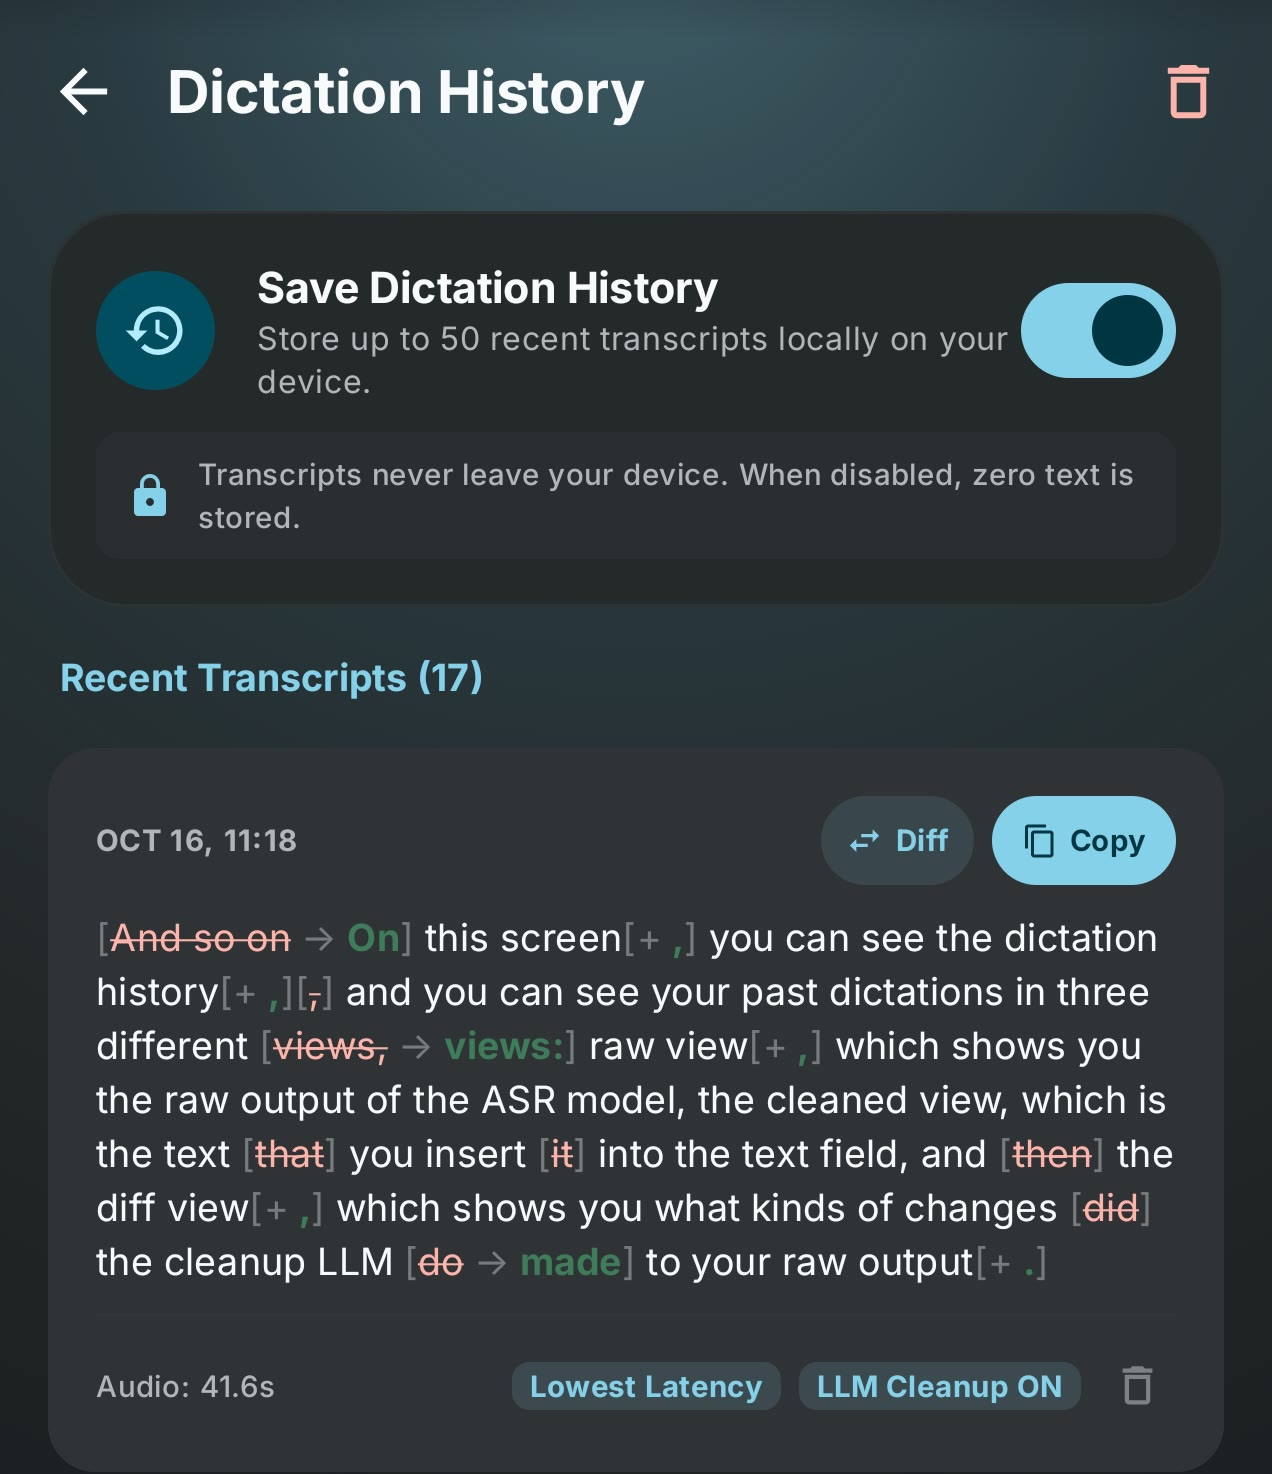
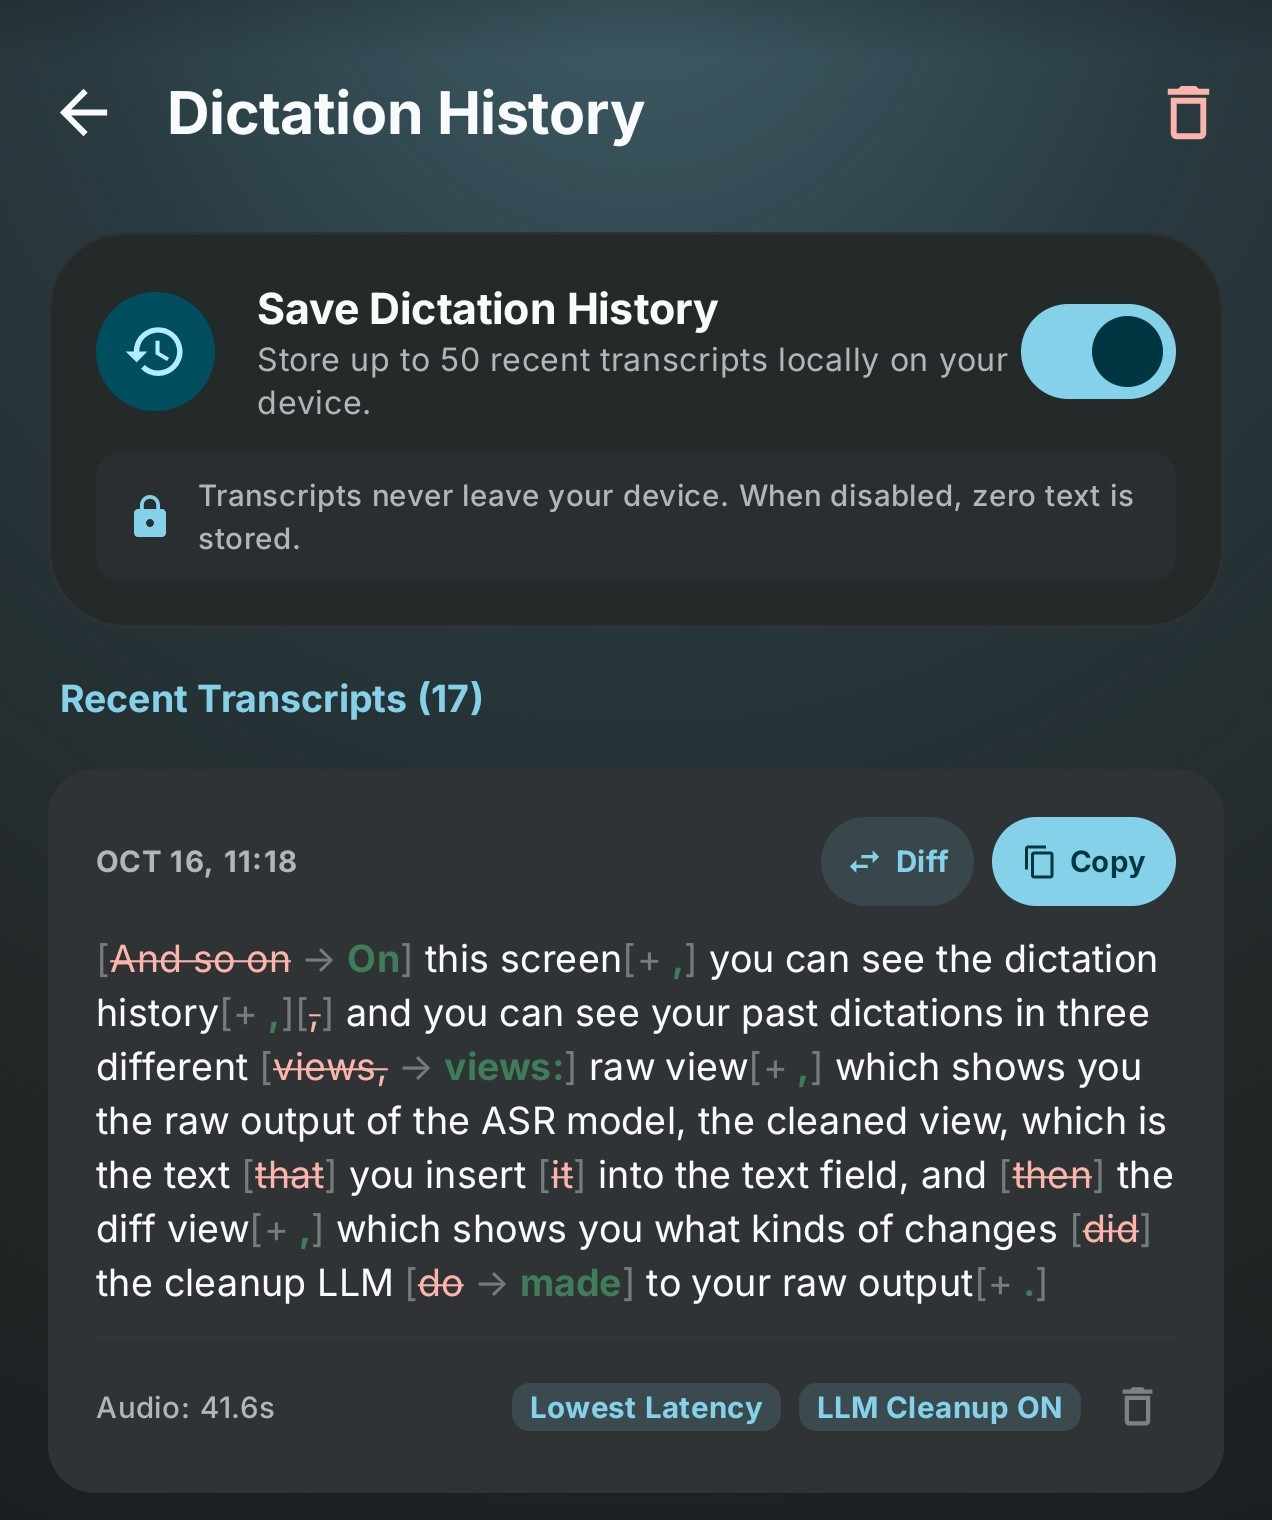
public-readme/CHUNK-2: use the user's own crops for every image
Replaces the agent's crops with the user-authored ones throughout:
hero GIF (card-only, 596x378), pill card, Home, history diff, pairing and
the two wizard steps - all cropped by the user, status bar removed, so the
cut lines are the intended ones rather than ones estimated off a scaled
preview.

Adds two assets that were missing:
- assets/desktop-pill.gif - the desktop client's pill (Listening ->
  green Inserted with the word count).
- assets/phone-server.jpg - the server dashboard, which is full-bleed and
  needs no status-bar crop.

Layout is now aspect-matched per row: server + Home (both ~2.1 tall),
wizard mic + models (both ~2.08), pill card at 60% beside the history
diff at 33% (near-equal heights). Pairing and the desktop pill move to
the 'Connect Desktop Client' step, where they are actually explained.
Removes the last three asset-slot markers.

diff --git a/README.md b/README.md
@@ -18,9 +18,8 @@ Speech-to-text that runs on your own devices — no cloud, no account.</p>
 Everything runs on your hardware. Zero cloud, zero subscriptions, zero audio leaving your devices.
 
 <p align="center">
-  <img src="assets/hero-demo.gif" alt="Dictating with the Sovereign floating pill: live streaming text, then insertion at the cursor" width="320" />
+  <img src="assets/hero-demo.gif" alt="The Sovereign transcript card filling with live streaming text: settled words in white, in-progress words in gray" width="560" />
 </p>
-<!-- ASSET SLOT: Desktop Demo GIF (Desktop client hotkey · speech sent to cursor) -->
 
 ## Why Sovereign
 
@@ -62,16 +61,16 @@ flowchart LR
 ```
 
 <p align="center">
-  <img src="assets/pairing-dialog.jpg" width="55%" alt="The pairing request dialog on the phone, showing the fingerprint to check against the desktop client" />
+  <img src="assets/phone-server.jpg" width="40%" alt="The Sovereign server dashboard: a large power control, with the connected desktop client listed at the bottom" />
+  <img src="assets/phone-home.jpg" width="40%" alt="Home dashboard: server status, voice model, cleanup profile and dictation statistics" />
 </p>
-<!-- ASSET SLOT: Desktop Server dashboard, active state (live Wi-Fi endpoint + connected PC) -->
 
 
 ## Features
 
 <p align="center">
-  <img src="assets/phone-pill-card.png" width="45%" alt="The floating pill expanded over a note, with settled text in white and in-progress speech in gray" />
-  <img src="assets/phone-history-diff.jpg" width="45%" alt="Dictation history showing the word-level diff between raw and cleaned text" />
+  <img src="assets/phone-pill-card.png" width="60%" alt="The floating pill expanded over a note, with settled text in white and in-progress speech in gray" />
+  <img src="assets/phone-history-diff.jpg" width="33%" alt="Dictation history showing the word-level diff between raw and cleaned text" />
 </p>
 
 **Dictation**
@@ -123,8 +122,8 @@ When you first launch Sovereign, the setup wizard walks you through granting per
 4. **Choose Model Pack** — Select an initial bundle based on your phone's storage and speed (see [Models](#models)). Notification permission is requested so downloads complete reliably in the background without Android killing the process.
 
 <p align="center">
-  <img src="assets/wizard-mic.jpg" width="45%" alt="Setup wizard, step 1: granting the microphone permission" />
-  <img src="assets/wizard-models.jpg" width="45%" alt="Setup wizard, step 4: choosing a model pack" />
+  <img src="assets/wizard-mic.jpg" width="42%" alt="Setup wizard, step 1: granting the microphone permission" />
+  <img src="assets/wizard-models.jpg" width="42%" alt="Setup wizard, step 4: choosing a model pack" />
 </p>
 
 
@@ -136,6 +135,16 @@ Turn your phone into a dictation microphone for your PC:
 2. **Launch the Desktop Client:** Download `sovereign-client.exe` from the [releases page](https://github.com/AlexeiKramm/sovereign/releases/latest) on your Windows PC and open it (it runs in your system tray).
 3. **One-Tap Pairing:** Click the tray icon and choose **Pair with phone…** (or let it auto-discover your phone). An authorization dialog will appear on your phone screen with your PC's name; tap **Allow**.
 4. **Dictate:** Place your cursor into any app on your PC (Word, browser, code editor, chat), press `Ctrl+Alt+Space`, and speak into your phone. The transcribed, cleaned text types directly at your PC cursor.
+
+<p align="center">
+  <img src="assets/phone-pairing.jpg" width="38%" alt="The pairing request dialog on the phone, showing the fingerprint to compare against the desktop client" />
+</p>
+
+The desktop client shows the same live state as the pill on your phone, and confirms how many words landed:
+
+<p align="center">
+  <img src="assets/desktop-pill.gif" width="72%" alt="The desktop client's floating pill: Listening, then the green Inserted state reporting the word count" />
+</p>
 
 
 ## Models
